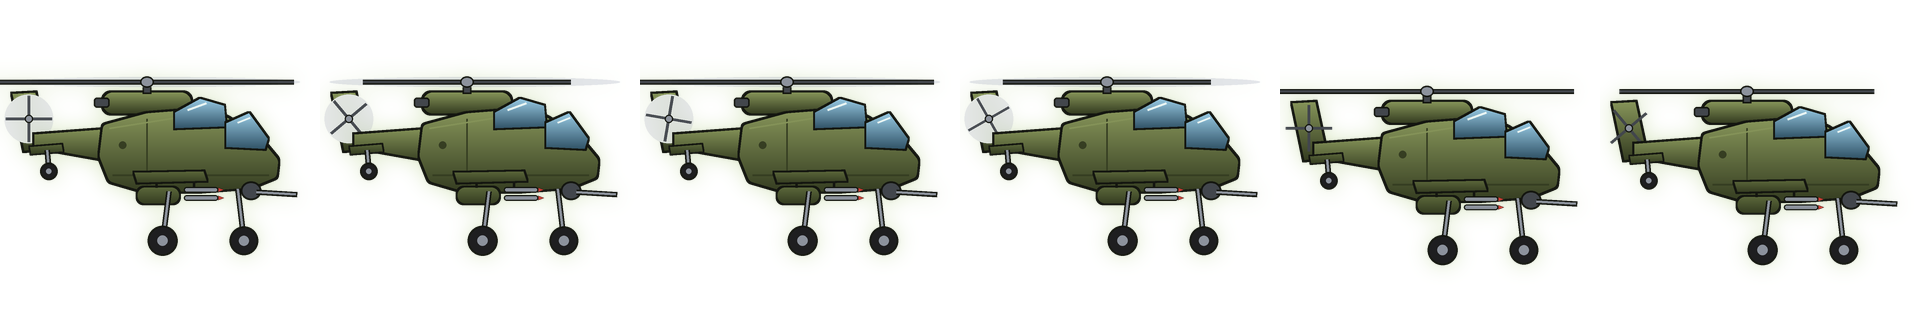
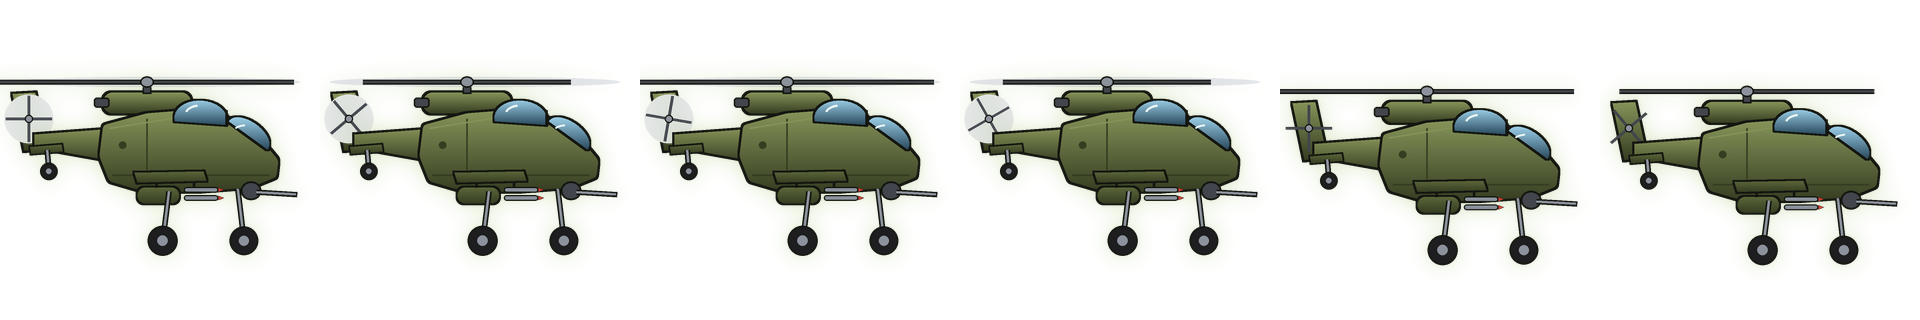
Attack helicopter: smooth domed canopies; flying side-view creatures dip the nose towards where they fly

diff --git a/tools/make_attack_heli.py b/tools/make_attack_heli.py
@@ -82,13 +82,30 @@ def heli(frame, landed=False):
     d.ellipse((380, 452 + dy, 404, 476 + dy), fill=OLIVE_D + (255,))                          # a hatch
     d.line([(350, 410 + dy), (590, 372 + dy)], fill=OLIVE_L + (255,), width=6)               # light along the top
 
-    # canopies: the pilot sits higher at the back, the gunner lower in front
-    for pts in ([(560, 360), (640, 316), (716, 338), (722, 404), (560, 410)],
-                [(724, 394), (796, 362), (856, 444), (846, 476), (724, 470)]):
-        glass = shape(lambda m, p=pts: m.polygon([(x, y + dy) for x, y in p], fill=255))
-        put(img, glass, GLASS_T, GLASS_B, min(y for _, y in pts) + dy, max(y for _, y in pts) + dy, 6)
-    d.line([(600, 352 + dy), (660, 330 + dy)], fill=(235, 248, 255, 200), width=7)          # reflections
-    d.line([(760, 392 + dy), (800, 376 + dy)], fill=(235, 248, 255, 200), width=6)
+    # canopies: smooth domes sitting on the body, no corners. The pilot's is higher at the back;
+    # the gunner's lies along the slope of the nose, so its glass faces forward and down
+    def dome(cx, cy, rx, ry, tilt, cut):
+        """An ellipse turned by tilt degrees, keeping only the part above a line through it (cut below the centre)."""
+        e = Image.new("L", (N, N), 0)
+        ImageDraw.Draw(e).ellipse((cx - rx, cy - ry, cx + rx, cy + ry), fill=255)
+        e = e.rotate(-tilt, resample=Image.BICUBIC, center=(cx, cy))
+        half = Image.new("L", (N, N), 0)
+        t = math.radians(tilt)
+        ux, uy = math.cos(t), math.sin(t)                 # along the base line
+        bx, by = cx - uy * -cut, cy + ux * cut            # a point on the base line
+        far = 2000
+        ImageDraw.Draw(half).polygon([(bx - ux * far, by - uy * far), (bx + ux * far, by + uy * far),
+                                      (bx + ux * far + uy * far, by + uy * far - ux * far),
+                                      (bx - ux * far + uy * far, by - uy * far - ux * far)], fill=255)
+        return ImageChops.multiply(e, half).point(lambda v: 255 if v > 128 else 0)
+
+    rear = dome(642, 380 + dy, 84, 58, 4, 14)
+    put(img, rear, GLASS_T, GLASS_B, 322 + dy, 394 + dy, 6)
+    front = dome(796, 430 + dy, 76, 40, 36, 12)
+    put(img, front, GLASS_T, GLASS_B, 380 + dy, 470 + dy, 6)
+    d.line([(724, 352 + dy), (724, 402 + dy)], fill=OUTLINE, width=8)                       # frame between the seats
+    d.arc((590, 334 + dy, 690, 400 + dy), 200, 260, fill=(235, 248, 255, 210), width=7)    # reflections
+    d.arc((744, 398 + dy, 830, 446 + dy), 215, 265, fill=(235, 248, 255, 210), width=6)
 
     # stub wing with a rocket pod and two missiles
     wing = shape(lambda m: m.polygon([(430, 552 + dy), (650, 548 + dy), (660, 578 + dy), (440, 584 + dy)], fill=255))

diff --git a/src/Program.cs b/src/Program.cs
@@ -330,6 +330,7 @@ namespace ButterflyCursor
         // click reactions
         bool mouseWasDown;
         float hopT, flipT;
+        float tilt;                        // helicopters dip the nose towards where they fly
         // somersault jump (the commando): frames jumpFirst..jumpFirst+3 are quarter turns
         const float JumpLen = 0.62f;
         bool jumps; int jumpFirst; float jumpT; double nextJump, lastJump;
@@ -1350,6 +1351,9 @@ namespace ButterflyCursor
             float target = Math.Min(1f, speed / Math.Max(1f, maxSpeed * 0.45f));
             moving += (target - moving) * Math.Min(1f, dt * 8f);
             if (Math.Abs(vx) > 12f * dpi) facing = vx > 0 ? 1f : -1f;
+            // flying side-view creatures lean forward: more when fast, level when hovering or landed
+            float tiltWant = flies && !resting ? 14f * Math.Min(1f, Math.Abs(vx) / Math.Max(1f, maxSpeed * 0.5f)) : 0f;
+            tilt += (tiltWant - tilt) * Math.Min(1f, dt * 3f);
 
             // heading: nose points where it goes
             bool turning = speed > (style == MoveStyle.Fly ? 70f : 12f) * dpi;
@@ -1705,6 +1709,7 @@ namespace ButterflyCursor
                 else
                 {
                     g.ScaleTransform(facing, 1f);
+                    if (tilt > 0.1f) g.RotateTransform(tilt);      // nose down, in either direction
                     g.DrawImage(frames[Math.Min(idx, frames.Length - 1)], -half, -half, S, S);
                 }
             }

diff --git a/src/CreaturePicker.cs b/src/CreaturePicker.cs
@@ -365,6 +365,7 @@ namespace ButterflyCursor
                     int f = (int)(t * (c.Flies ? 8 : 11)) % Math.Max(1, p.RunFrames);
                     pic = p.Frames[f];
                     g.TranslateTransform(0, (float)Math.Sin(t * 6) * 4 * k);
+                    if (c.Flies) g.RotateTransform(10);              // flying forward: the nose dips
                 }
                 else if (c.RestSeq != null)
                     pic = p.Frames[Math.Min(p.Frames.Length - 1, p.RunFrames + c.RestSeq[(int)((cycle - 4.0) / c.RestStep) % c.RestSeq.Length])];
